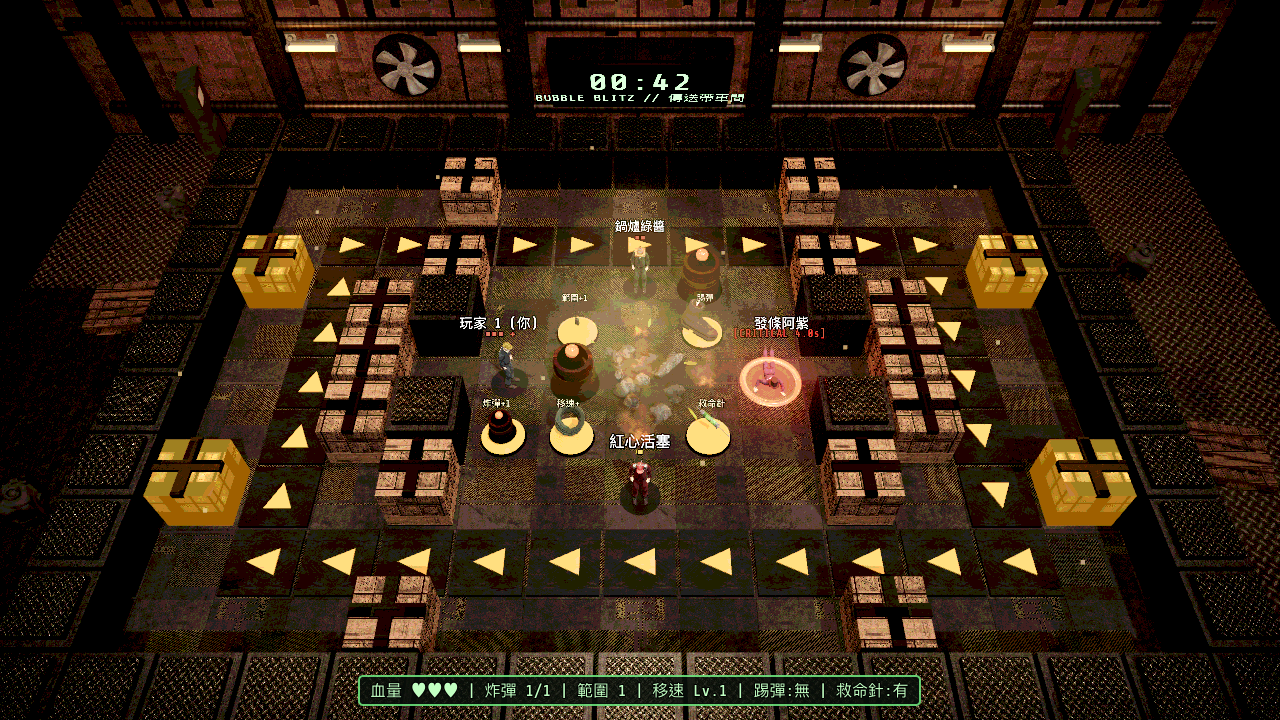
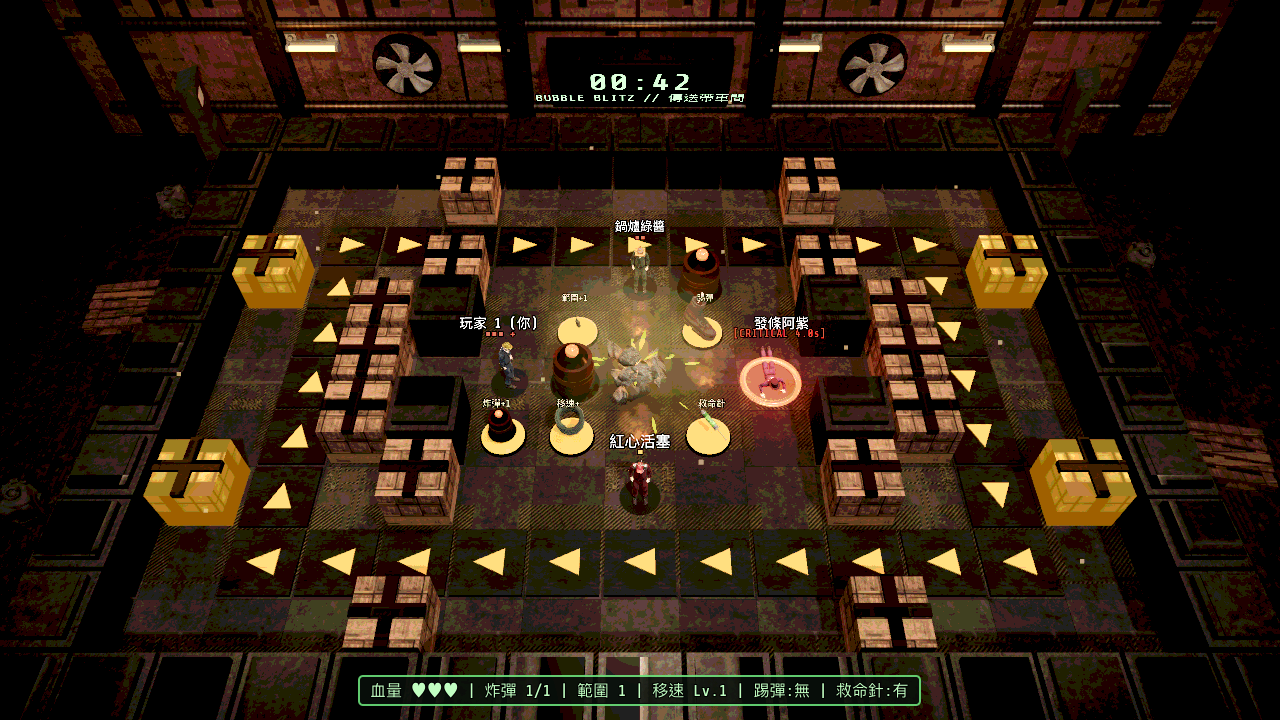
fix(mods): replace noisy treadplate/grate surfaces across all 5 minigames

diff --git a/mods/core-heist/README.md b/mods/core-heist/README.md
@@ -20,7 +20,7 @@ Team-only 75-second industrial energy heist minigame built on [`mpm-core`](../mp
 | `main.gd` | MPML v2 entry, registers scripts & `team_only` admission into `mpm-core` |
 | `official_minigame.gd` | Official `Minigame` signal/RPC lifecycle wrapper |
 | `config.gd` | Phase timings, 2–4 team arena geometry, 32-cell pool scaling & combat constants |
-| `arena_meshes.gd` | Warm industrial 2–4 team arena (concrete/treadplate/grate/brick PBR contrast), vanilla PCK props & grime decals, 3D CRT monitor, vaults, player rigs & icon |
+| `arena_meshes.gd` | Warm industrial 2–4 team arena (concrete/brushed-steel/cast-iron/brick PBR contrast), vanilla PCK props & grime decals, 3D CRT monitor, vaults, player rigs & icon |
 | `fx_pool.gd` | Pre-allocated FX pools via `mpm-core.create_fx_pool()`, scorch Decal, flash light & ambient dust mote pools with warmup |
 | `hud_ui.gd` | Diegetic-first HUD: frameless top-left scores, opening YOU marker, 3-2-1-GO countdown & standalone CRT summary |
 | `ai_controller.gd` | 4-state co-op AI (Escort, Carrier, Defender, Collector/Raider) |

diff --git a/mods/bubble-blitz/README.md b/mods/bubble-blitz/README.md
@@ -47,7 +47,7 @@
 | `mod.json` | 是 | 模组清单与入口声明 |
 | `main.gd` | 是 | MPML API v2 入口：注册至多小游戏共存中心（槽位 `ScavangerChairs = 8`） |
 | `config.gd` | 是 | 预置参数、4 套随机对称地图生成、动态尺寸与综合计分 |
-| `arena_meshes.gd` | 是 | 程序化 3D 工业仓库舞台（混凝土/花纹钢板/高光滚轴对比材质）、原版排风扇/道具/油污贴花、水泡、传送带、道具、压板与 CRT 图标 |
+| `arena_meshes.gd` | 是 | 程序化 3D 工业仓库舞台（混凝土/拉丝重钢/高光滚轴对比材质）、原版排风扇/道具/油污贴花、水泡、传送带、道具、压板与 CRT 图标 |
 | `fx_pool.gd` | 是 | 爆炸火焰、粒子、焦痕/血迹贴花、漂浮尘埃与灯光常驻对象池与错帧清理 |
 | `ai_controller.gd` | 是 | 机器人避弹、寻路、放弹及组队救援 AI 决策 |
 | `team_support.gd` | 是 | 共享可选组队辅助模块（读取 `team-party` 注册表并降级支持 FFA） |

diff --git a/mods/roller-carnival/README.md b/mods/roller-carnival/README.md
@@ -66,7 +66,7 @@
 | `mod.json` | 是 | 模組中繼資料、入口腳本宣告與優先權 |
 | `main.gd` | 是 | MPML API v2 入口：註冊虛擬腳本、場景 Hook與 `ShapeCutter` 替換 |
 | `config.gd` | 是 | 預設平衡參數、安全生成間隔底線與積分計算 |
-| `carnival_meshes.gd` | 是 | 程序化 3D 工業舞台（混凝土/花紋鋼板/鐵網格/高光滾筒材質、聚光燈池/SSAO/深度霧）、原版排風扇/道具/貼花與燈泡框建構器 |
+| `carnival_meshes.gd` | 是 | 程序化 3D 工業舞台（混凝土/拉絲重鋼板/高光滾筒材質、聚光燈池/SSAO/深度霧）、原版排風扇/道具/貼花與燈泡框建構器 |
 | `fx_pool.gd` | 是 | 撞擊血花、淘汰血霧、熔岩上升火星與地面血跡貼花常駐物件池與視錐預熱 |
 | `hud_ui.gd` | 是 | CRT 黑幕過場、四角定位框、倒數與分數結算面板 UI |
 | `team_support.gd` | 是 | 共享可選組隊輔助模組（讀取 `team-party` 註冊表並降級支援 FFA） |

diff --git a/mods/spike-ring/README.md b/mods/spike-ring/README.md
@@ -41,7 +41,7 @@
 | `mod.json` | 是 | 模组清单与入口声明 |
 | `main.gd` | 是 | MPML API v2 入口：注册至多小游戏共存中心（槽位 `BurnRecycle = 17`） |
 | `config.gd` | 是 | 竞技场尺寸、难度曲线、关卡主题与同步参数配置 |
-| `arena_meshes.gd` | 是 | 程序化圆形机械舞台（混凝土/花纹钢板/铁网格对比材质）、原版工业道具/排风扇/油污贴花、机关缓存资源与 CRT 图标 |
+| `arena_meshes.gd` | 是 | 程序化圆形机械舞台（混凝土/拉丝钢板/铸铁对比材质）、原版工业道具/排风扇/油污贴花、机关缓存资源与 CRT 图标 |
 | `hazard_director.gd` | 是 | 安全生成器、激光/电锯/地刺波次导演与缩圈尖刺环逻辑 |
 | `fx_pool.gd` | 是 | 推搡命中与淘汰粒子、战斗焦痕贴花、闪光与微粒常驻对象池与视锥预热 |
 | `ai_controller.gd` | 是 | 机器人避险走位与敌我目标推搡决策 |
